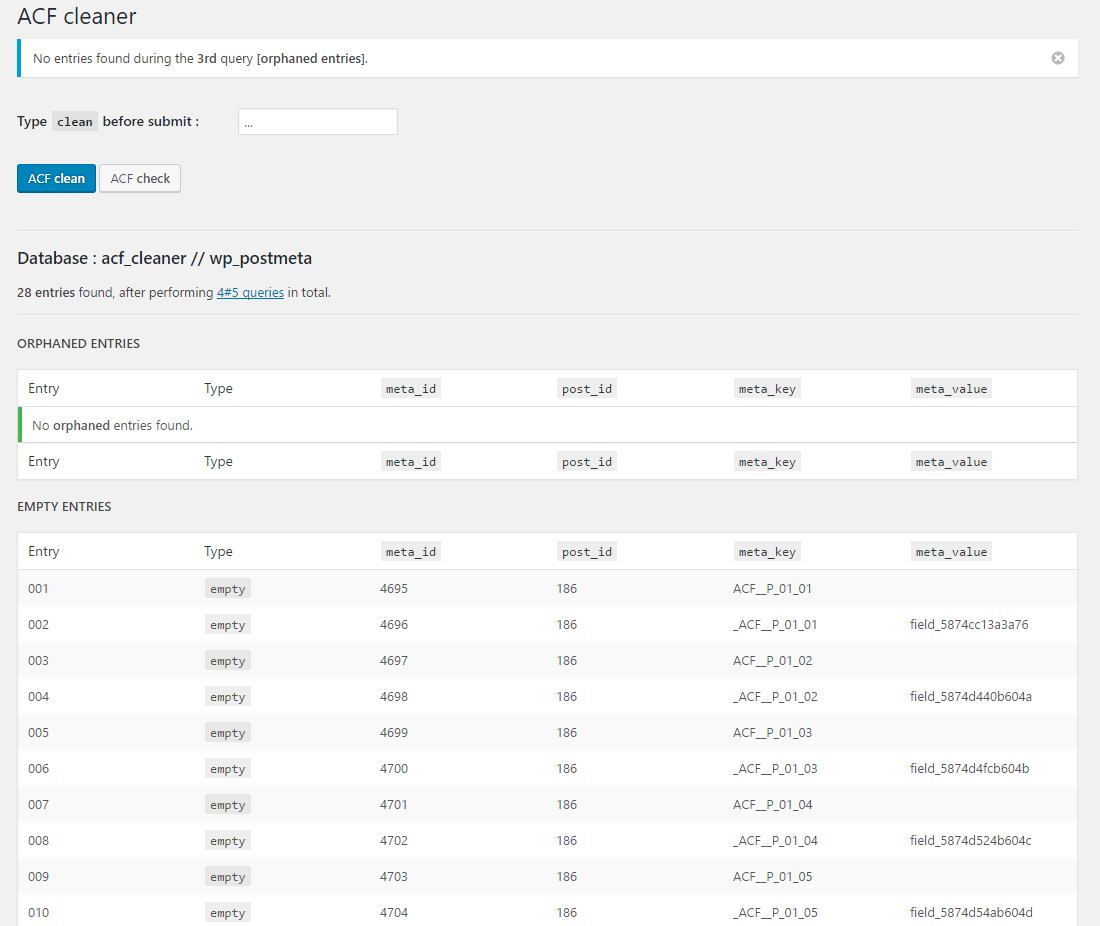
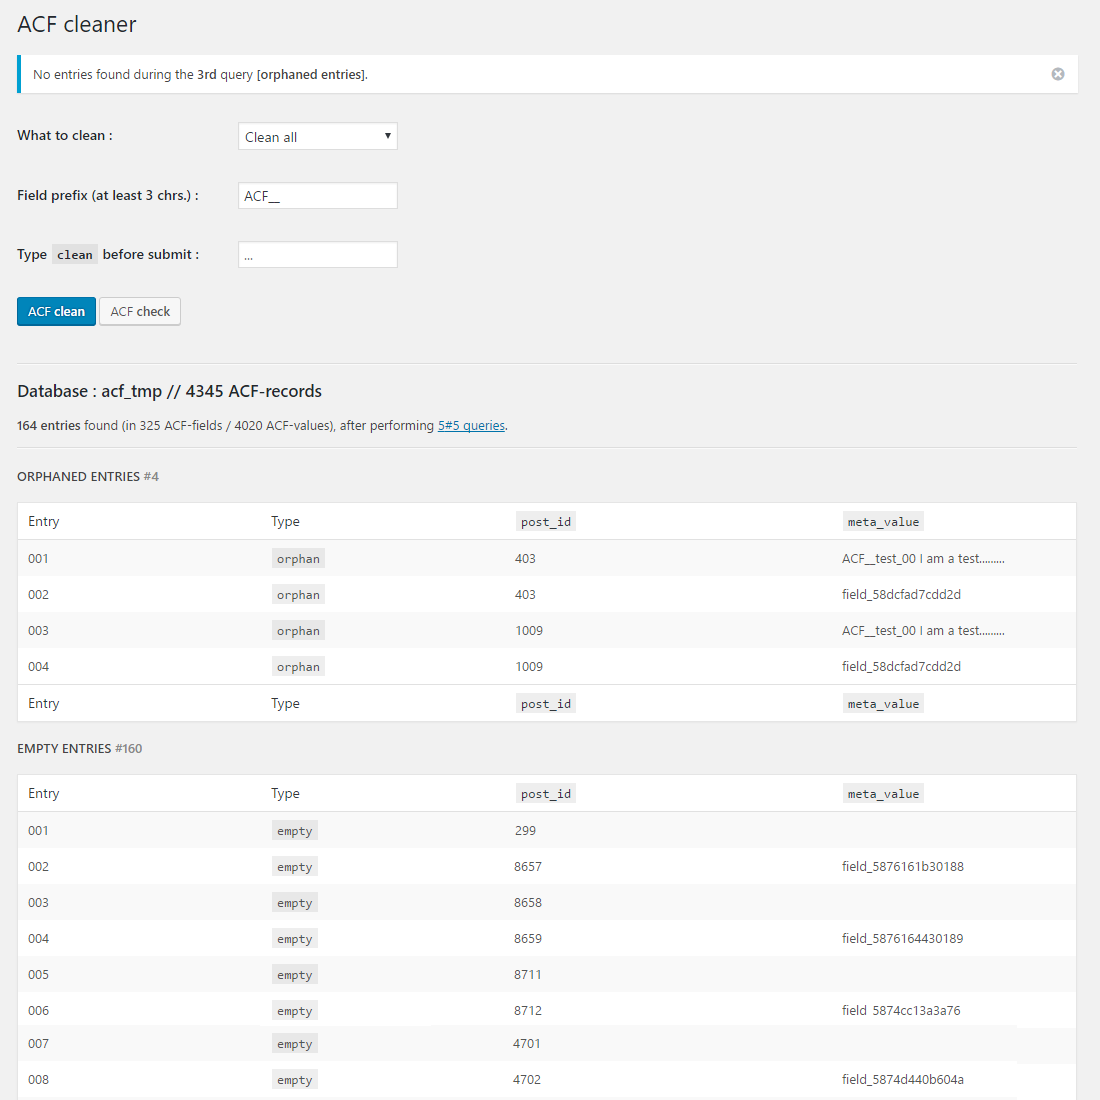
Option to filter clean-up objects.
Filter your clean-up action;

- Clean all
- Clean orphaned only
- Clean empty only

--

- Updated screenshot to 1.3.5
- Notice for "false positives"

diff --git a/db.php b/db.php
@@ -36,7 +36,11 @@ function acf_quote($val) {
 
 /* Define the action (select | delete) */
 
-define('ACF_ACTION', $acf_clean == true?'DELETE':'SELECT *');
+define('ACF_ACTION_1', $acf_clean_1 == true?'DELETE':'SELECT *');
+define('ACF_ACTION_2', $acf_clean_2 == true?'DELETE':'SELECT *');
+
+// echo 'ACF_ACTION_1 : ' . ACF_ACTION_1 . '<br>';
+// echo 'ACF_ACTION_2 : ' . ACF_ACTION_2;
 
 /* Some variables */
 
@@ -44,7 +48,8 @@ $err = false;
 $msg = false;
 $txt = false;
 $inf = '';
-$cnt = 0;
+$cnt_1 = 0;
+$cnt_2 = 0;
 $cnt_fields = 0;
 $cnt_values = 0;
 $acf_empty = 0;
@@ -160,7 +165,7 @@ $result = null;
 
             $array_fields[] = $row['meta_id'];
             $array_fields[] = $row['meta_id'] - 1;
-            $cnt += 2;
+            $cnt_1 += 2;
 
           }
 
@@ -178,7 +183,7 @@ $result = null;
 /* Select or delete ORPHANED entries (parent & child) */
 /* --------------------------------------------------- */
 
-    $query = ACF_ACTION . ' FROM `wp_postmeta` WHERE `meta_id` IN (' . implode(',', $array_fields) . ')';
+    $query = ACF_ACTION_1 . ' FROM `wp_postmeta` WHERE `meta_id` IN (' . implode(',', $array_fields) . ')';
     $result = null;
 
       if(count($array_fields)) {
@@ -198,7 +203,7 @@ $result = null;
 
 /* When entries are available, itterate them */
 
-      if ($result && $acf_clean != true) {
+      if ($result && $acf_clean_1 != true) {
 
         $sql++;
         $i = 0;
@@ -262,7 +267,7 @@ $result = null;
 
           $array_values[] = $row['meta_id'];
           $array_values[] = $row['meta_id'] + 1;
-          $cnt += 2;
+          $cnt_2 += 2;
 
         }
 
@@ -274,7 +279,7 @@ $result = null;
 /* Select or delete EMPTY entries (parent & child) */
 /* --------------------------------------------------- */
 
-    $query = ACF_ACTION . ' FROM `wp_postmeta` WHERE `meta_id` IN (' . implode(',', $array_values) . ')';
+    $query = ACF_ACTION_2 . ' FROM `wp_postmeta` WHERE `meta_id` IN (' . implode(',', $array_values) . ')';
     $result = null;
 
       if(count($array_values)) {
@@ -294,7 +299,7 @@ $result = null;
 
 /* When entries are found, itterate them */
 
-      if ($result && $acf_clean != true) {
+      if ($result && $acf_clean_2 != true) {
 
         $sql++;
         $i = 0;
@@ -372,17 +377,28 @@ $result = null;
 
   }
 
+/* Get final result [what is not-cleaned | left] */
+
+  $cnt_1 = intval($cnt_1);
+  $cnt_2 = intval($cnt_2);
+
+  $acf_total = $cnt_1 + $cnt_2;
+
+  if ($acf_clean_1) {
+
+    $acf_total -= $cnt_1;
+
+  }
+
+  if ($acf_clean_2) {
+
+    $acf_total -= $cnt_2;
+
+  }
+
 /* Close the connection */
 
   mysqli_close($connection);
-
-/* When cleaning, count is always zero */
-
-  if ($acf_clean) {
-
-    $cnt = 0;
-
-  }
 
 /* Update the totals-count, without object-buffering */
 
@@ -390,7 +406,7 @@ $result = null;
 
           try {
 
-            $("#acf_cnt").text("' . $cnt . '");
+            $("#acf_cnt").text("' . $acf_total . '");
             $("#acf_orphan").text("#' . $acf_orphan . '");
             $("#acf_empty").text("#' . $acf_empty . '");
             $("#acf_fields").text("' . $cnt_fields . '");
@@ -408,7 +424,7 @@ $result = null;
 
   </script>';
 
-  if ($acf_clean == true) {
+  if ($acf_clean_1 == true || $acf_clean_2 == true) {
 
 /* Show final result, on top of page */
 
@@ -424,7 +440,23 @@ $result = null;
 
     if (!$err) {
 
-      echo '<script>(function($){try{$("#acf_succeed span").text(' . $cnt . ');$("#acf_succeed").removeClass("hidden");}catch(e){}}(jQuery));</script>';
+/* Get final result [what is cleaned] */
+
+      $acf_total = 0;
+
+      if ($acf_clean_1) {
+
+        $acf_total += $cnt_1;
+
+      }
+
+      if ($acf_clean_2) {
+
+        $acf_total += $cnt_2;
+
+      }
+
+      echo '<script>(function($){try{$("#acf_succeed span").text("' . $acf_total . '");$("#acf_succeed").removeClass("hidden");}catch(e){}}(jQuery));</script>';
 
     }
 

diff --git a/admin.php b/admin.php
@@ -3,11 +3,15 @@
 /* Exit if accessed directly */
 
 if ( ! defined( 'ABSPATH' ) ) {
+
   exit;
+
 }
 
 $acf_ajax = strpos($_SERVER['HTTP_ACCEPT'], 'application') !== false?'false':'true';
-$acf_clean = false;
+$acf_clean_1 = false;
+$acf_clean_2 = false;
+$acf_filter = 0;
 $acf_prefix = 'ACF__';
 
   if ($acf_ajax == "true") {
@@ -37,11 +41,32 @@ if (isset($_COOKIE['acf_prefix'])) {
 
 /* Check or clean the database */
 
-  if (isset($_POST['clean'])) {
+  if (isset($_POST['acf_clean'])) {
 
-    if ($_POST['clean'] === 'clean') {
+    if ($_POST['acf_clean'] === 'clean') {
 
-      $acf_clean = true;
+      $acf_filter = $_POST['acf_filter'];
+
+      switch ($acf_filter) {
+
+        case '1':
+          $acf_clean_1 = true;
+        break;
+
+        case '2':
+          $acf_clean_2 = true;
+        break;
+
+        case '3':
+          $acf_clean_1 = true;
+          $acf_clean_2 = true;
+        break;
+
+        default:
+
+          // 2DO
+
+      }
 
     } else {
 
@@ -59,19 +84,11 @@ if (isset($_COOKIE['acf_prefix'])) {
 
   } else {
 
-  $acf_wpml = false;
-
-  if ( function_exists('icl_object_id') ) {
-
-   $acf_wpml = '<br><b>WPML notice :</b> when restoring ACF-entries from trash, <i>false positives</i> can show up as orphans. Re-save all pages (containing those entries) before cleaning.';
-
-  }
-
 ?>
 
   <div class="notice notice-warning is-dismissible">
     <p>
-      <?php printf( __('Before you do any cleaning <a href="%1$s" target="%2$s" title="view plug-in (external)">backup</a> your database first.<br>This tool only proceeds (ACF) fieldnames with a consistent prefix, like <code>ACF__</code> (case-insensitive).' . $acf_wpml, 'acf_cleaner'), 'https://wordpress.org/plugins/wp-dbmanager/', '_blank'); ?>
+      <?php printf( __('Before you do any cleaning <a href="%1$s" target="%2$s" title="view plug-in (external)">backup</a> your database first.<br>This tool only proceeds (ACF) fieldnames with a consistent prefix, like <code>ACF__</code> (case-insensitive).<br><b>Notice :</b> when restoring ACF-entries from trash, <i>false positives</i> can show up as orphans; (re-) save all pages (containing those entries) before cleaning.', 'acf_cleaner'), 'https://wordpress.org/plugins/wp-dbmanager/', '_blank'); ?>
     </p>
   </div>
 
@@ -97,12 +114,22 @@ if (isset($_COOKIE['acf_prefix'])) {
 
     <table class="form-table">
       <tr valign="top">
+      <th scope="row"><?php _e('What to clean :', 'acf_cleaner'); ?></th>
+      <td>
+        <select style="min-width:160px;" name="acf_filter" id="acf_filter">
+          <option value="3"<?php if ($acf_filter == '3' || $acf_filter == '0') { echo ' selected'; } ?>><?php _e('Clean all', 'acf_cleaner'); ?></option>
+          <option value="1"<?php if ($acf_filter == '1') { echo ' selected'; } ?>><?php _e('Orphans only', 'acf_cleaner'); ?></option>
+          <option value="2"<?php if ($acf_filter == '2') { echo ' selected'; } ?>><?php _e('Empty only', 'acf_cleaner'); ?></option>
+        </select>
+      </td>
+      </tr>
+      <tr valign="top">
       <th scope="row"><?php _e('Field prefix (at least 3 chrs.) :', 'acf_cleaner'); ?></th>
-      <td><input type="text" name="prefix" id="acf_prefix" value="<?php echo $acf_prefix; ?>" placeholder="ACF__"></td>
+      <td><input type="text" name="acf_prefix" id="acf_prefix" value="<?php echo $acf_prefix; ?>" placeholder="ACF__" style="min-width:160px;"></td>
       </tr>
       <tr valign="top">
       <th scope="row"><?php printf( __('Type <code>%1$s</code> before submit :', 'acf_cleaner'), 'clean'); ?></th>
-      <td><input type="text" name="clean" value="" placeholder="..."></td>
+      <td><input type="text" name="acf_clean" value="" placeholder="..." style="min-width:160px;"></td>
       </tr>
     </table>
 

diff --git a/acf-cleaner.php b/acf-cleaner.php
@@ -4,7 +4,7 @@
   Plugin Name: ACF Cleaner
   Plugin URI: https://github.com/1n3JgKl9pQ6cUMrW/acf-cleaner
   Description: Remove empty and orphaned ACF entries.
-  Version: 1.3.0
+  Version: 1.3.5
   Author: 1n3JgKl9pQ6cUMrW
   Author URI: https://github.com/1n3JgKl9pQ6cUMrW/
 */
